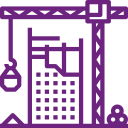
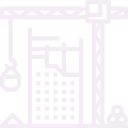
[UPDATE] website

diff --git a/src/app/Home/products/products.tsx b/src/app/Home/products/products.tsx
@@ -5,65 +5,65 @@ const Products = () => {
 
 
   return (
-    <section className="bg-service bg-no-repeat bg-bottom">
-      <div className="pt-44 pb-44">
-        <div className="text-center text-success -mt-24">
+    <section className="bg-success">
+      <div className="pt-44 lg:pb-10">
+        <div className="text-center text-primary -mt-24">
           <h1 className="text-4xl" data-aos="zoom-in">بصمتنا في تحقيق طموحك في التحول الرقمي</h1>
         </div>
         <div className="grid xl:grid-cols-3 md:grid-cols-3 grid-cols-2 gap-8 mx-20 py-20" data-aos="fade-up">
-          <div className="text-center text-xl text-success">
+          <div className="text-center text-xl text-primary">
             <div className="flex justify-center">
-              <Image src="/product/skyline.png" width={100} height={20} alt="..." />
+              <Image src="/product/building.png" width={100} height={20} alt="..." />
             </div>
             <h1>نظام إدارة المؤسسات العقاري</h1>
             <h1>Real state ERP</h1>
           </div>
-          <div className="text-center text-xl text-success">
+          <div className="text-center text-xl text-primary">
             <div className="flex justify-center">
               <Image src="/product/hook.png" width={100} height={20} alt="..." />
             </div>
             <h1>نظام إدارة موارد المؤسسات للمقاولات</h1>
             <h1>Construction ERP</h1>
           </div>
-          <div className="text-center text-xl text-success">
+          <div className="text-center text-xl text-primary">
             <div className="flex justify-center">
-              <Image src="/product/call-center-service.png" width={100} height={20} alt="..." />
+              <Image src="/product/support.png" width={100} height={20} alt="..." />
             </div>
             <h1>نظام إدارة المؤسسات لخدمات الصيانة الميدانية</h1>
             <h1>(خدمة العملاء)</h1>
           </div>
-          <div className="text-center text-xl text-success">
+          <div className="text-center text-xl text-primary">
             <div className="flex justify-center">
               <Image src="/product/hr.png" width={100} height={20} alt="..." />
             </div>
             <h1>نظام الموارد البشرية </h1>
             <h1>(المتوافق مع أنظمة العمل  السعودي)</h1>
           </div>
-          <div className="text-center text-xl text-success">
+          <div className="text-center text-xl text-primary">
             <div className="flex justify-center">
               <Image src="/product/self-services.png" width={100} height={20} alt="..." />
             </div>
             <h1>بوابة الخدمة الذاتية للموظفين</h1>
           </div>
-          <div className="text-center text-xl text-success">
+          <div className="text-center text-xl text-primary">
             <div className="flex justify-center">
               <Image src="/product/vendor.png" width={100} height={20} alt="..." />
             </div>
             <h1>بوابة الموردين والعملاء</h1>
           </div>
-          <div className="text-center text-xl text-success">
+          <div className="text-center text-xl text-primary">
             <div className="flex justify-center">
               <Image src="/product/electoral.png" width={100} height={20} alt="..." />
             </div>
             <h1>نظام العضوية وإنتخابات المجالس</h1>
           </div>
-          <div className="text-center text-xl text-success">
+          <div className="text-center text-xl text-primary">
             <div className="flex justify-center">
               <Image src="/product/self-service.png" width={100} height={20} alt="..." />
             </div>
             <h1>تطبيق جوال الخدمة الذاتية للموظفين</h1>
           </div>
-          <div className="text-center text-xl text-success">
+          <div className="text-center text-xl text-primary">
             <div className="flex justify-center">
               <Image src="/product/assign.png" width={100} height={20} alt="..." />
             </div>

diff --git a/src/app/Home/customer/customer.tsx b/src/app/Home/customer/customer.tsx
@@ -1,0 +1,82 @@
+"use client";
+import Image from 'next/image'
+import { Swiper, SwiperSlide } from 'swiper/react';
+import "swiper/css";
+import "swiper/css/navigation";
+import "swiper/css/pagination";
+import "swiper/css/scrollbar";
+import { Navigation, Pagination, Scrollbar, A11y, Autoplay } from 'swiper/modules';
+
+
+const l = [
+  {"id": 1, "image": '/customer/Groupe1.png'},
+  {"id": 2, "image": '/customer/Groupe2.png'},
+  {"id": 3, "image": '/customer/Groupe3.png'},
+  {"id": 4, "image": '/customer/Groupe4.png'},
+  {"id": 5, "image": '/customer/Groupe5.png'},
+  {"id": 6, "image": '/customer/Groupe6.png'},
+  {"id": 7, "image": '/customer/Groupe7.png'},
+  {"id": 8, "image": '/customer/Groupe8.png'},
+  {"id": 9, "image": '/customer/Groupe9.png'},
+  {"id": 10, "image": '/customer/Groupe10.png'},
+  {"id": 11, "image": '/customer/Groupe11.png'},
+  {"id": 12, "image": '/customer/Groupe12.png'},
+  {"id": 13, "image": '/customer/Groupe13.png'},
+  {"id": 14, "image": '/customer/Groupe14.png'},
+]
+
+
+const Customer = () => {
+  return (
+    <section className="md:bg-customer md:bg-cover md:bg-bottom">
+      <div className="py-20 mx-4 lg:mx-20">
+        <div className="text-center text-success pb-16">
+          <h1 className="text-2xl md:text-4xl" data-aos="zoom-in">عملاء نفتخر بهم</h1>
+        </div>
+        <div className="flex justify-center items-center lg:pb-10">
+          <Swiper
+            data-aos="fade-up"
+            modules={[Navigation, Pagination, Scrollbar, A11y, Autoplay]}
+            autoplay={{
+              delay: 3000,
+              disableOnInteraction: false,
+            }}
+            loop={true}
+            spaceBetween={50}
+            slidesPerView={1}
+            breakpoints={{
+              "@0.00": {
+                slidesPerView: 1,
+              },
+              "@0.75": {
+                slidesPerView: 2,
+              },
+              "@1.00": {
+                slidesPerView: 3,
+              },
+              "@1.50": {
+                slidesPerView: 7,
+              },
+            }}
+          >
+            {l?.map((l) => ( 
+              <SwiperSlide key={l.id} className="flex justify-center items-center">
+                <div className="h-[200px] flex justify-center items-center overflow-hidden">
+                  <Image
+                    src={l.image}
+                    width={200}
+                    height={80}
+                    alt="Picture"
+                  />
+                </div>
+              </SwiperSlide>
+            ))}
+            
+          </Swiper>
+        </div>
+      </div>
+    </section>
+  )
+}
+
+export default Customer

diff --git a/src/app/Home/customer_experiences/customer_experiences.tsx b/src/app/Home/customer_experiences/customer_experiences.tsx
@@ -18,10 +18,10 @@ const l = [
 ]
 const CustomerExperiences = () => {
   return (
-    <section className="bg-partner bg-no-repeat bg-bottom">
-      <div className="py-20 mx-20">
+    <section className="md:bg-partner md:bg-no-repeat md:bg-bottom">
+      <div className="py-20 mx-4 lg:mx-20">
         <div className="text-center text-success pb-16">
-          <h1 className="text-4xl" data-aos="zoom-in">عملاؤنا يتحدثون عنا</h1>
+          <h1 className="text-2xl md:text-4xl" data-aos="zoom-in">عملاؤنا يتحدثون عنا</h1>
         </div>
         <div className="">
           <Swiper
@@ -39,10 +39,10 @@ const CustomerExperiences = () => {
                 slidesPerView: 1,
               },
               "@0.75": {
-                slidesPerView: 1,
+                slidesPerView: 2,
               },
               "@1.00": {
-                slidesPerView: 1,
+                slidesPerView: 3,
               },
               "@1.50": {
                 slidesPerView: 3,

diff --git a/src/app/Home/services/services.tsx b/src/app/Home/services/services.tsx
@@ -36,11 +36,11 @@ const Services = () => {
 
   return (
     <section
-      className="bg-service bg-no-repeat bg-bottom"
+      className="md:bg-service md:bg-no-repeat md:bg-bottom"
     >
       <div className="pt-10">
         <div className="text-center text-success pb-24">
-          <h1 className="text-4xl" data-aos="zoom-in">الخدمات التي نقدمها لعملائنا</h1>
+          <h1 className="text-2xl md:text-4xl" data-aos="zoom-in">الخدمات التي نقدمها لعملائنا</h1>
         </div>
         <div className="grid xl:grid-cols-4 md:grid-cols-3 grid-cols-2 gap-8 mx-20" data-aos="fade-up">
           {l?.map((l) => (

diff --git a/src/app/Home/hero/hero.tsx b/src/app/Home/hero/hero.tsx
@@ -13,7 +13,7 @@ const l = [
 const Hero = () => {
 
   return (
-    <section className="bg-primary bg-hero bg-no-repeat bg-cover bg-bottom">
+    <section className="bg-primary md:bg-hero md:bg-no-repeat md:bg-cover md:bg-bottom">
       <div className="py-8 px-4 mx-auto max-w-screen-xl text-center lg:py-12 lg:px-12">
           <h1 className="mb-4 text-4xl font-extrabold tracking-tight leading-none text-success md:text-5xl lg:text-6xl" data-aos="zoom-in">حلول رقمية مبتكرة</h1>
           <div className="px-4 mx-auto text-center md:max-w-screen-md lg:max-w-screen-lg">

diff --git a/src/app/page.tsx b/src/app/page.tsx
@@ -7,6 +7,7 @@ import Hero from "./Home/hero/hero";
 import CustomerExperiences from "./Home/customer_experiences/customer_experiences"
 import Services from "./Home/services/services"
 import Products from "./Home/products/products"
+import Customer from "./Home/customer/customer"
 
 
 export default function Home() {
@@ -22,6 +23,7 @@ export default function Home() {
       <CustomerExperiences />
       <Services />
       <Products />
+      <Customer />
     </div>
   );
 }

diff --git a/tailwind.config.ts b/tailwind.config.ts
@@ -45,6 +45,7 @@ export default {
       hero: "url('/banar/11.svg')",
       partner: "url('/partner/02.svg')",
       service: "url('/partner/02.svg')",
+      customer: "url('/banar/14.svg')",
     },
   },
   plugins: [],

diff --git a/src/app/Home/customer_experiences/page.tsx b/src/app/Home/customer_experiences/page.tsx
@@ -1,3 +1,3 @@
-import ImportantClients from "./customer_experiences";
+import CustomerExperiences from "./customer_experiences";
 
-export default ImportantClients
+export default CustomerExperiences

diff --git a/src/app/Home/customer/page.tsx b/src/app/Home/customer/page.tsx
@@ -1,0 +1,3 @@
+import Customer from "./customer";
+
+export default Customer
